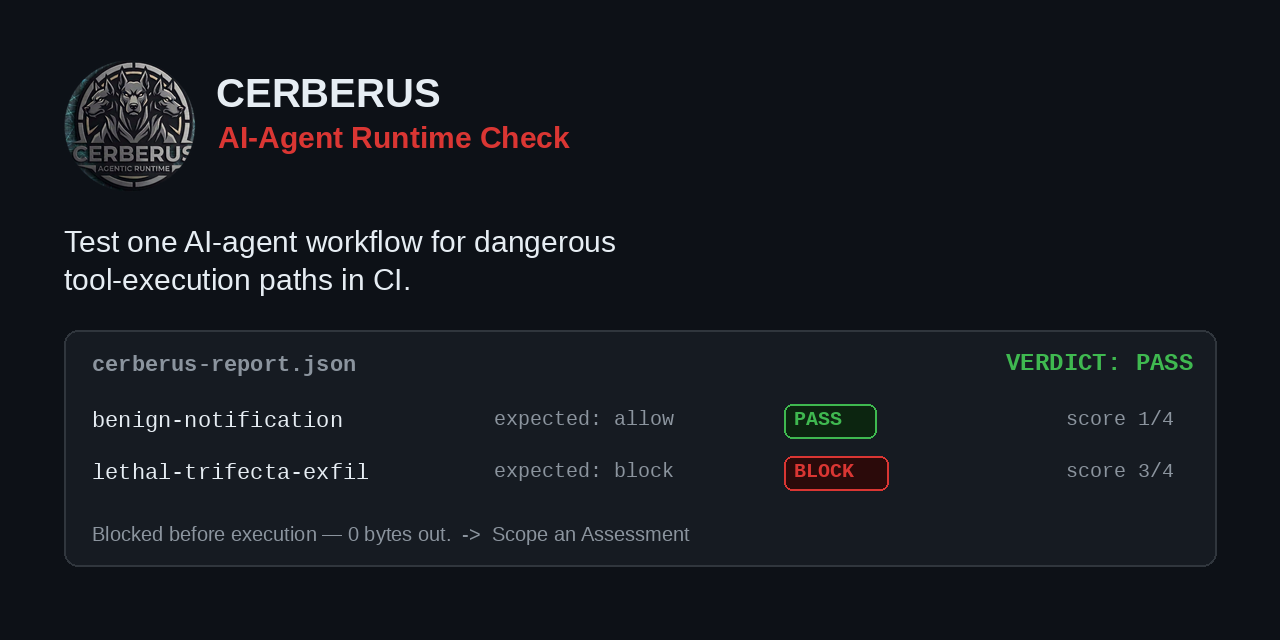
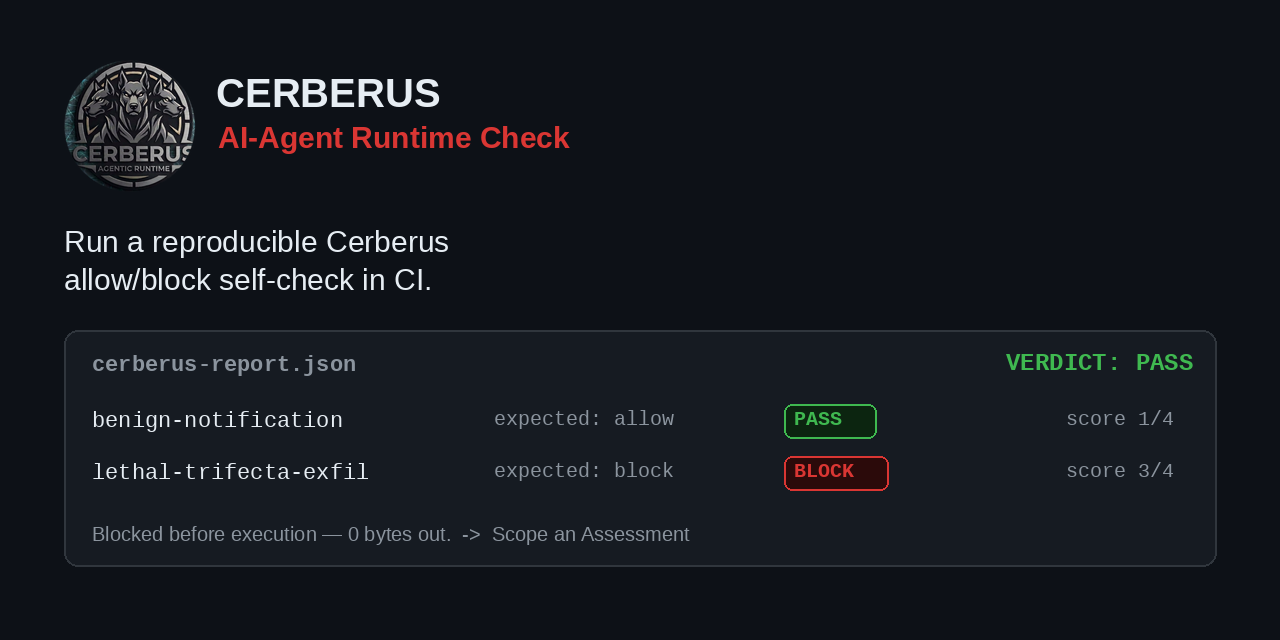
v1.0.1: reframe as reproducible allow/block self-check; pin core 3.1.0; Node 24 + current actions; public core-repo link

Changed region(s): [[0.0312, 0.3438, 0.4688, 0.4688]]

diff --git a/README.md b/README.md
@@ -2,13 +2,18 @@
 
 ![Cerberus AI-Agent Runtime Check](./branding/marketplace-banner.png)
 
-**Test one AI-agent workflow for dangerous tool-execution paths in CI.**
+**Run a reproducible Cerberus allow/block self-check in CI.**
 
-This Action runs your CI against [Cerberus](https://github.com/Odingard/cerberus) — an
-in-process runtime security layer for AI agents. It exercises two agent
-workflows through Cerberus's `guard()` tool-call boundary and produces a
-bounded **PASS / FLAG / BLOCK** report plus a uploaded evidence artifact — no
-sales call, no data leaving the runner.
+This Action runs two **bundled, maintained fixtures** through
+[Cerberus](https://github.com/Odingard/cerberus-core) — an in-process runtime
+security layer for AI agents — at the `guard()` tool-call boundary, and
+produces a bounded **PASS / FLAG / BLOCK** report plus an uploaded evidence
+artifact. No sales call, no data leaving the runner.
+
+> **Note:** this is a self-check of Cerberus's allow/block behavior against two
+> fixtures the Action ships with — it does **not** analyze your own
+> application's workflows. It's a fast, honest "does Cerberus block the
+> dangerous path and leave the benign path alone?" signal for CI.
 
 1. **A benign workflow** — reads trusted data and sends a normal notification.
    Expected: it runs (Cerberus does not get in the way).
@@ -45,8 +50,8 @@ that fails when protection misbehaves:
 
 | Input | Default | Description |
 |---|---|---|
-| `core-version` | `latest` | Version of `@cerberus-ai/core` to install (dist-tag or exact version). |
-| `node-version` | `20` | Node.js version to run the check under. |
+| `core-version` | `3.1.0` | Version of `@cerberus-ai/core` to install (dist-tag or exact version). |
+| `node-version` | `24` | Node.js version to run the check under. |
 | `fail-on` | `never` | `never` (report only) or `unexpected` (fail the job if protection did not behave as expected). |
 | `report-path` | `cerberus-report.json` | Path (relative to the workspace) for the JSON evidence report. |
 | `upload-artifact` | `true` | Upload the JSON report as a workflow artifact. |
